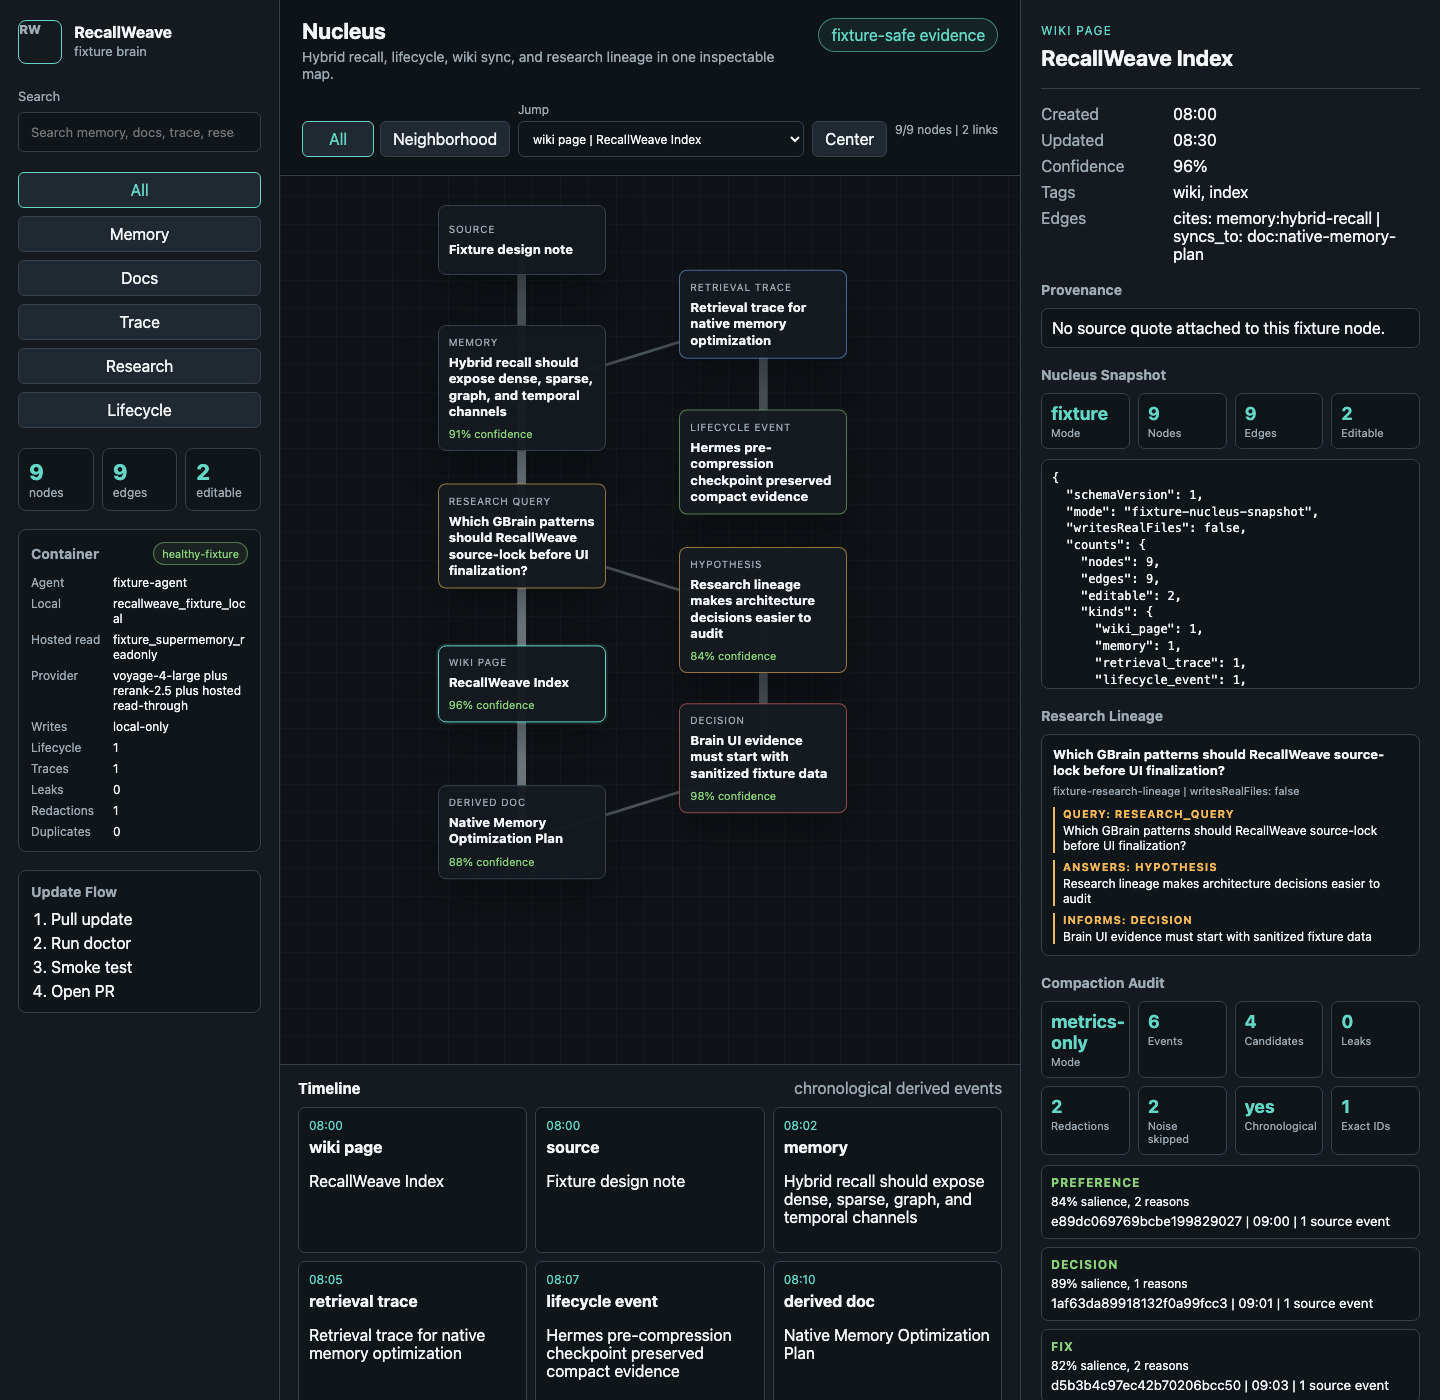
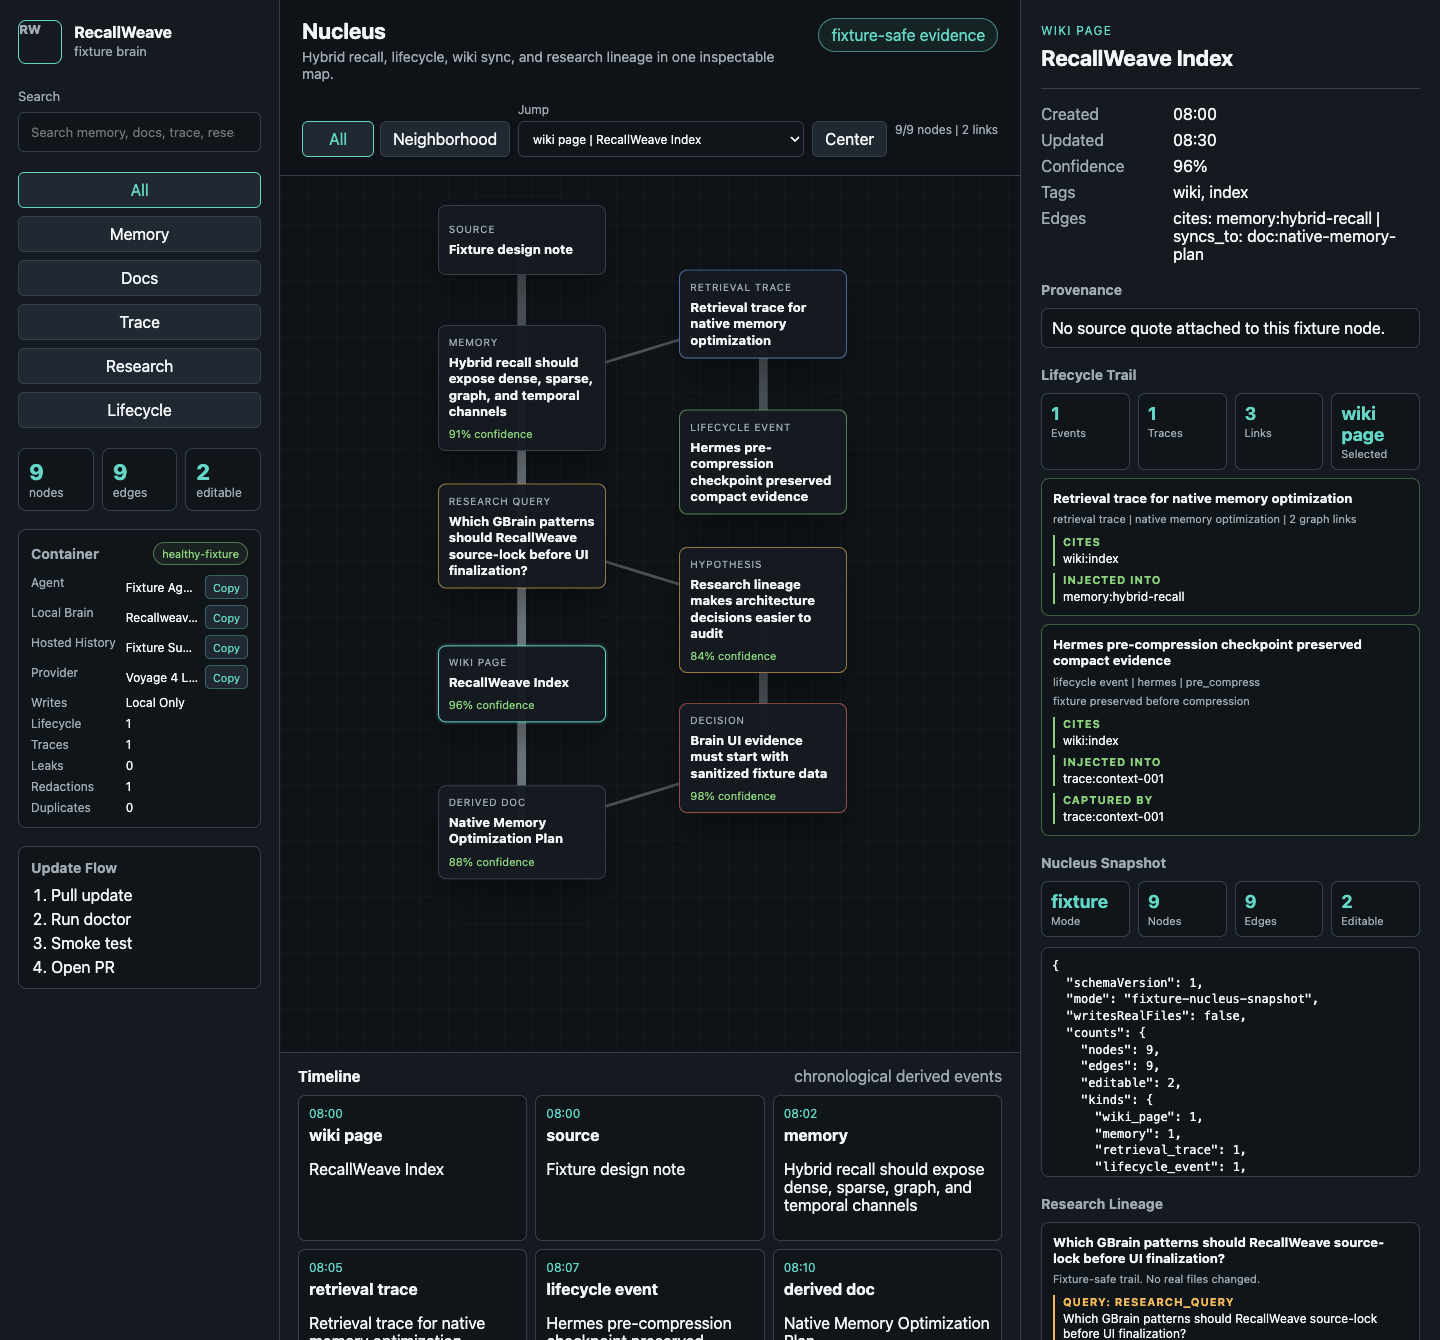
Expose compaction session map telemetry

diff --git a/packages/brain-ui/src/app.js b/packages/brain-ui/src/app.js
@@ -87,6 +87,7 @@ const modelMatrixGates = document.querySelector("#modelMatrixGates");
 const modelMatrixExport = document.querySelector("#modelMatrixExport");
 const compactionAuditSummary = document.querySelector("#compactionAuditSummary");
 const compactionAuditFingerprints = document.querySelector("#compactionAuditFingerprints");
+const compactionAuditSessionMap = document.querySelector("#compactionAuditSessionMap");
 const compactionAuditExport = document.querySelector("#compactionAuditExport");
 const benchmarkStatus = document.querySelector("#benchmarkStatus");
 const benchmarkSummary = document.querySelector("#benchmarkSummary");
@@ -942,6 +943,10 @@ function renderSessionCompactionAudit() {
     stat("Noise skipped", packet.metrics.skippedNoise),
     stat("Chronological", packet.metrics.chronological ? "yes" : "no"),
     stat("Exact IDs", packet.quality.exactIdentifierCandidateCount),
+    stat("Topic links", packet.sessionMap.topicLinkCount),
+    stat("Lifecycle", packet.sessionMap.lifecycleEventCount),
+    stat("Unlinked", packet.sessionMap.unlinkedCandidateCount),
+    stat("Waste", packet.sessionMap.wasteSignals.length),
   );
 
   compactionAuditFingerprints.replaceChildren();
@@ -956,6 +961,42 @@ function renderSessionCompactionAudit() {
     meta.textContent = `${candidate.idHash} | ${formatTime(candidate.observedAt)} | ${candidate.sourceEventCount} source event${candidate.sourceEventCount === 1 ? "" : "s"}`;
     item.append(label, value, meta);
     compactionAuditFingerprints.append(item);
+  }
+
+  compactionAuditSessionMap.replaceChildren();
+  for (const [phase, count] of Object.entries(packet.sessionMap.lifecyclePhaseCounts)) {
+    const item = document.createElement("li");
+    const label = document.createElement("strong");
+    const value = document.createElement("span");
+    const meta = document.createElement("small");
+    item.dataset.kind = "lifecycle";
+    label.textContent = "phase";
+    value.textContent = phase;
+    meta.textContent = `${count} event${count === 1 ? "" : "s"}`;
+    item.append(label, value, meta);
+    compactionAuditSessionMap.append(item);
+  }
+  for (const signal of packet.sessionMap.wasteSignals) {
+    const item = document.createElement("li");
+    const label = document.createElement("strong");
+    const value = document.createElement("span");
+    item.dataset.kind = "waste";
+    label.textContent = "signal";
+    value.textContent = signal;
+    item.append(label, value);
+    compactionAuditSessionMap.append(item);
+  }
+  for (const topic of packet.sessionMap.topicFingerprints) {
+    const item = document.createElement("li");
+    const label = document.createElement("strong");
+    const value = document.createElement("span");
+    const meta = document.createElement("small");
+    item.dataset.kind = "topic";
+    label.textContent = "topic";
+    value.textContent = `${topic.topicPathHash} | ${Math.round(topic.salience * 100)}% salience`;
+    meta.textContent = `${topic.candidateCount} candidate${topic.candidateCount === 1 ? "" : "s"} | ${topic.sourceEventCount} source event${topic.sourceEventCount === 1 ? "" : "s"} | depth ${topic.depth}`;
+    item.append(label, value, meta);
+    compactionAuditSessionMap.append(item);
   }
 
   compactionAuditExport.textContent = JSON.stringify(packet, null, 2);

diff --git a/packages/brain-ui/src/model.js b/packages/brain-ui/src/model.js
@@ -417,8 +417,39 @@ function buildSessionCompactionAudit(report) {
       lastObservedAt: safeOptionalTimestamp(report?.quality?.lastObservedAt),
       privacyLeakCount: numeric(report?.quality?.privacyLeakCount),
     },
+    sessionMap: buildSessionCompactionSessionMap(report?.sessionMap),
     candidateFingerprints,
     strict: Boolean(report?.strict),
+  };
+}
+
+function buildSessionCompactionSessionMap(sessionMap = {}) {
+  const topicFingerprints = Array.isArray(sessionMap?.topicFingerprints)
+    ? sessionMap.topicFingerprints.map((topic) => ({
+        idHash: safeExportText(topic?.idHash ?? ""),
+        topicPathHash: safeExportText(topic?.topicPathHash ?? ""),
+        depth: numeric(topic?.depth),
+        candidateCount: numeric(topic?.candidateCount),
+        sourceEventCount: numeric(topic?.sourceEventCount),
+        reasonCount: numeric(topic?.reasonCount),
+        salience: score(topic?.salience),
+        firstObservedAt: safeTimestamp(topic?.firstObservedAt, "1970-01-01T00:00:00.000Z"),
+        lastObservedAt: safeTimestamp(topic?.lastObservedAt, "1970-01-01T00:00:00.000Z"),
+      }))
+    : [];
+  return {
+    idHash: safeExportText(sessionMap?.idHash ?? ""),
+    topicLinkCount: numeric(sessionMap?.topicLinkCount),
+    lifecycleEventCount: numeric(sessionMap?.lifecycleEventCount),
+    linkedCandidateCount: numeric(sessionMap?.linkedCandidateCount),
+    unlinkedCandidateCount: numeric(sessionMap?.unlinkedCandidateCount),
+    statementsInspected: numeric(sessionMap?.statementsInspected),
+    durableStatements: numeric(sessionMap?.durableStatements),
+    duplicateCandidateMerges: numeric(sessionMap?.duplicateCandidateMerges),
+    wasteSignals: safeStringList(sessionMap?.wasteSignals),
+    warnings: safeStringList(sessionMap?.warnings),
+    lifecyclePhaseCounts: safeNumberMap(sessionMap?.lifecyclePhaseCounts),
+    topicFingerprints,
   };
 }
 

diff --git a/packages/brain-ui/src/index.html b/packages/brain-ui/src/index.html
@@ -131,6 +131,7 @@
           <h3>Compaction Audit</h3>
           <div id="compactionAuditSummary" class="audit-summary" aria-label="Fixture local session compaction audit summary"></div>
           <ol id="compactionAuditFingerprints" class="audit-files" aria-label="Fixture local session compaction audit candidate fingerprints"></ol>
+          <ol id="compactionAuditSessionMap" class="audit-files" aria-label="Fixture local session compaction audit session map"></ol>
           <pre id="compactionAuditExport" class="policy-draft" aria-label="Fixture local session compaction audit export"></pre>
         </section>
         <section id="benchmark-dashboard">

diff --git a/reviews/overnight-20260522/brain-ui-compaction-audit-evidence.md b/reviews/overnight-20260522/brain-ui-compaction-audit-evidence.md
@@ -1,12 +1,13 @@
 # Brain UI Compaction Audit Evidence
 
-Date: 2026-05-22
+Date: 2026-05-22, refreshed 2026-05-29
 
 Scope:
 
 - Added a fixture-only Compaction Audit panel to the Brain UI.
 - The panel renders local session compaction audit metrics, kind counts,
-  chronology, privacy status, and candidate fingerprints.
+  chronology, privacy status, candidate fingerprints, and session-map
+  lifecycle/topic telemetry.
 - The rendered packet uses `mode: fixture-local-session-compaction-audit`,
   `metricsOnly: true`, and `writesRealFiles: false`.
 
@@ -18,6 +19,8 @@ Public-safety boundary:
   contents, or real agent paths.
 - It does not display candidate memory text, raw session text, or exact private
   source text.
+- Session-map rows expose only hashed topic fingerprints, phase counts, and
+  metrics-only waste signals.
 - It does not write files, mutate memory, sync a vault, or update any hosted
   service.
 
@@ -26,19 +29,22 @@ Verification expectations:
 - Brain UI smoke sees the Compaction Audit panel, builder, fixture endpoint,
   and current source wiring.
 - Interaction smoke proves the model export is metrics-only, has zero privacy
-  leaks, preserves chronological output, and does not include candidate text.
+  leaks, preserves chronological output, carries session-map lifecycle/topic
+  counters, and does not include candidate text.
 - Browser evidence shows 6 fixture input events, 4 candidate fingerprints, 2
   redactions, chronological output, 1 exact-identifier candidate, zero privacy
-  leaks, zero console errors, and no private/key-shaped visible text.
+  leaks, 4 topic links, 6 lifecycle events, 0 unlinked candidates, zero console
+  errors, and no private/key-shaped visible text.
 
 Verification:
 
 - `node packages/brain-ui/smoke.mjs`: passed.
 - `node packages/brain-ui/interaction-smoke.mjs`: passed.
-- Codex Browser opened `http://127.0.0.1:4177` with fixture data and captured
-  DOM evidence.
+- Headless Chrome opened `http://127.0.0.1:4189` with fixture data and
+  refreshed DOM evidence after the session-map telemetry contract landed.
 - Headless Chrome captured a fixture-only screenshot that shows the Compaction
-  Audit panel.
+  Audit panel. The in-app browser bridge was unavailable in this resumed
+  context, so this refresh uses the headless capture path.
 - Screenshot:
   `reviews/overnight-20260522/ui-evidence/brain-ui-compaction-audit.png`.
 - DOM evidence:

diff --git a/reviews/overnight-20260522/ui-evidence/README.md b/reviews/overnight-20260522/ui-evidence/README.md
@@ -30,7 +30,7 @@
   `brain-ui-research-lineage-dom-evidence.json`.
 - Headless Chrome captured the fixture-only Research Lineage panel in
   `brain-ui-research-lineage.png`.
-- Codex Browser captured Compaction Audit DOM evidence in
+- Headless Chrome captured refreshed Compaction Audit DOM evidence in
   `brain-ui-compaction-audit-evidence.json`.
 - Headless Chrome captured the fixture-only Compaction Audit panel in
   `brain-ui-compaction-audit.png`.
@@ -89,13 +89,14 @@
   `brain-ui-graph-navigation-evidence.json` reports neighborhood scope,
   jump-to-node options, selected-node visibility, zero console errors, and no
   private/key-shaped visible text.
-- The Compaction Audit slice was verified by Codex Browser DOM evidence, fresh
+- The Compaction Audit slice was verified by refreshed DOM evidence, fresh
   Brain UI smoke, and interaction smoke. A fixture-only screenshot was captured
   at `brain-ui-compaction-audit.png`, and
   `brain-ui-compaction-audit-evidence.json` reports metrics-only mode, 6 input
   events, 4 candidate fingerprints, 2 redactions, chronological output, 1
-  exact-identifier candidate, zero privacy leaks, zero console errors, and no
-  raw candidate text.
+  exact-identifier candidate, 4 topic links, 6 lifecycle events, 0 unlinked
+  candidates, zero privacy leaks, zero console errors, and no raw candidate
+  text.
 - The Benchmark Dashboard slice was verified by Codex Browser DOM evidence,
   fresh Brain UI smoke, interaction smoke, and Gemini focused review. A
   fixture-only screenshot was captured at `brain-ui-benchmark-dashboard.png`,
